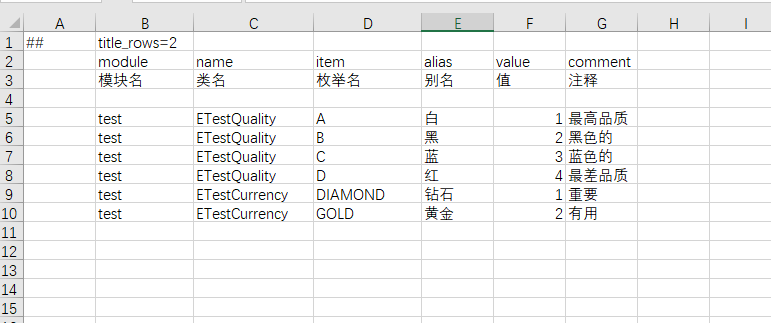
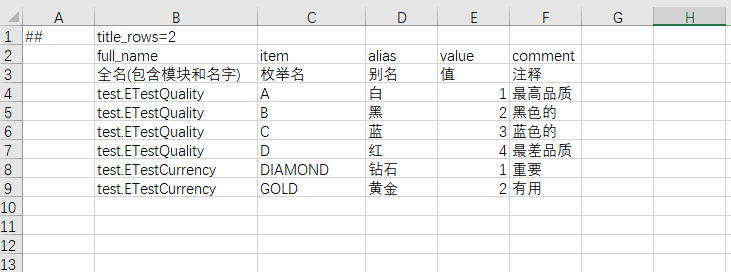
【特性】支持在excel中定义bean 【调整】将table和enum的excel格式中 module字段与name字段合并为full_name字段

Changed region(s): [[0.0, 0.0294, 1.0, 1.0]]

diff --git a/src/Luban.Job.Cfg/Source/Defs/CfgDefLoader.cs b/src/Luban.Job.Cfg/Source/Defs/CfgDefLoader.cs
@@ -20,9 +20,10 @@ namespace Luban.Job.Cfg.Defs
     {
         private static readonly NLog.Logger s_logger = NLog.LogManager.GetCurrentClassLogger();
 
-        private readonly List<string> _importExcelTables = new();
+        private readonly List<string> _importExcelTableFiles = new();
+        private readonly List<string> _importExcelEnumFiles = new();
+        private readonly List<string> _importExcelBeanFiles = new();
 
-        private readonly List<string> _importExcelEnums = new();
 
         private readonly List<Branch> _branches = new();
 
@@ -78,9 +79,10 @@ namespace Luban.Job.Cfg.Defs
             }
             switch (type)
             {
-                case "table": this._importExcelTables.Add(importName); break;
-                case "enum": this._importExcelEnums.Add(importName); break;
-                default: throw new Exception($"importexcel name:'{importName}' type:'{type}' 不合法. 有效值为 table 或者 enum");
+                case "table": this._importExcelTableFiles.Add(importName); break;
+                case "enum": this._importExcelEnumFiles.Add(importName); break;
+                case "bean": this._importExcelBeanFiles.Add(importName); break;
+                default: throw new Exception($"importexcel name:'{importName}' type:'{type}' 不合法. 有效值为 table|enum|bean");
             }
         }
 
@@ -437,11 +439,11 @@ namespace Luban.Job.Cfg.Defs
 
         private async Task LoadTableListFromFileAsync(string dataDir)
         {
-            if (this._importExcelTables.Count == 0)
+            if (this._importExcelTableFiles.Count == 0)
             {
                 return;
             }
-            var inputFileInfos = await DataLoaderUtil.CollectInputFilesAsync(this.Agent, this._importExcelTables, dataDir);
+            var inputFileInfos = await DataLoaderUtil.CollectInputFilesAsync(this.Agent, this._importExcelTableFiles, dataDir);
 
             var defTableRecordType = new DefBean(new CfgBean()
             {
@@ -455,8 +457,7 @@ namespace Luban.Job.Cfg.Defs
                 IsSerializeCompatible = false,
                 Fields = new List<Field>
                 {
-                    new CfgField() { Name = "name", Type = "string" },
-                    new CfgField() { Name = "module", Type = "string" },
+                    new CfgField() { Name = "full_name", Type = "string" },
                     new CfgField() { Name = "value_type", Type = "string" },
                     new CfgField() { Name = "index", Type = "string" },
                     new CfgField() { Name = "mode", Type = "string" },
@@ -484,8 +485,13 @@ namespace Luban.Job.Cfg.Defs
                 {
                     DBean data = r.Data;
                     //s_logger.Info("== read text:{}", r.Data);
-                    string name = (data.GetField("name") as DString).Value.Trim();
-                    string module = (data.GetField("module") as DString).Value.Trim();
+                    string fullName = (data.GetField("full_name") as DString).Value.Trim();
+                    if (string.IsNullOrWhiteSpace(fullName))
+                    {
+                        throw new Exception($"file:{file.ActualFile} 定义了一个空的table类名");
+                    }
+                    string name = TypeUtil.GetName(fullName);
+                    string module = TypeUtil.GetNamespace(fullName);
                     string valueType = (data.GetField("value_type") as DString).Value.Trim();
                     string index = (data.GetField("index") as DString).Value.Trim();
                     string mode = (data.GetField("mode") as DString).Value.Trim();
@@ -501,11 +507,11 @@ namespace Luban.Job.Cfg.Defs
 
         private async Task LoadEnumListFromFileAsync(string dataDir)
         {
-            if (this._importExcelTables.Count == 0)
+            if (this._importExcelEnumFiles.Count == 0)
             {
                 return;
             }
-            var inputFileInfos = await DataLoaderUtil.CollectInputFilesAsync(this.Agent, this._importExcelEnums, dataDir);
+            var inputFileInfos = await DataLoaderUtil.CollectInputFilesAsync(this.Agent, this._importExcelEnumFiles, dataDir);
 
             var defTableRecordType = new DefBean(new CfgBean()
             {
@@ -519,8 +525,7 @@ namespace Luban.Job.Cfg.Defs
                 IsSerializeCompatible = false,
                 Fields = new List<Field>
                 {
-                    new CfgField() { Name = "name", Type = "string" },
-                    new CfgField() { Name = "module", Type = "string" },
+                    new CfgField() { Name = "full_name", Type = "string" },
                     new CfgField() { Name = "item", Type = "string" },
                     new CfgField() { Name = "alias", Type = "string" },
                     new CfgField() { Name = "value", Type = "string" },
@@ -546,17 +551,18 @@ namespace Luban.Job.Cfg.Defs
                 {
                     DBean data = r.Data;
                     //s_logger.Info("== read text:{}", r.Data);
-                    string name = (data.GetField("name") as DString).Value.Trim();
-                    string module = (data.GetField("module") as DString).Value.Trim();
+                    string fullName = (data.GetField("full_name") as DString).Value.Trim();
+                    if (string.IsNullOrWhiteSpace(fullName))
+                    {
+                        throw new Exception($"file:{file.ActualFile} 定义了一个空的enum类名");
+                    }
+                    string name = TypeUtil.GetName(fullName);
+                    string module = TypeUtil.GetNamespace(fullName);
+
                     if (curEnum == null || curEnum.Name != name || curEnum.Namespace != module)
                     {
                         curEnum = new PEnum() { Name = name, Namespace = module, IsFlags = false, Comment = "", IsUniqueItemId = true };
                         this._enums.Add(curEnum);
-                    }
-
-                    if (string.IsNullOrWhiteSpace(name))
-                    {
-                        throw new Exception($"file:{file.ActualFile} 定义了一个空枚举类名");
                     }
 
                     string item = (data.GetField("item") as DString).Value.Trim();
@@ -572,9 +578,125 @@ namespace Luban.Job.Cfg.Defs
             }
         }
 
+        private async Task LoadBeanListFromFileAsync(string dataDir)
+        {
+            if (this._importExcelBeanFiles.Count == 0)
+            {
+                return;
+            }
+            var inputFileInfos = await DataLoaderUtil.CollectInputFilesAsync(this.Agent, this._importExcelBeanFiles, dataDir);
+
+
+            var ass = new DefAssembly("", null, true, Agent);
+
+            var defBeanFieldType = new DefBean(new CfgBean()
+            {
+                Namespace = "__intern__",
+                Name = "__FieldInfo__",
+                Parent = "",
+                Alias = "",
+                IsValueType = false,
+                Sep = "",
+                TypeId = 0,
+                IsSerializeCompatible = false,
+                Fields = new List<Field>
+                {
+                    new CfgField() { Name = "name", Type = "string" },
+                    new CfgField() { Name = "type", Type = "string" },
+                    new CfgField() { Name = "sep", Type = "string" },
+                    new CfgField() { Name = "is_multi_rows", Type = "bool" },
+                    new CfgField() { Name = "group", Type = "string" },
+                    new CfgField() { Name = "comment", Type = "string" },
+                }
+            })
+            {
+                AssemblyBase = ass,
+            };
+
+            defBeanFieldType.PreCompile();
+            defBeanFieldType.Compile();
+            defBeanFieldType.PostCompile();
+
+            ass.AddType(defBeanFieldType);
+
+            var defTableRecordType = new DefBean(new CfgBean()
+            {
+                Namespace = "__intern__",
+                Name = "__BeanInfo__",
+                Parent = "",
+                Alias = "",
+                IsValueType = false,
+                Sep = "",
+                TypeId = 0,
+                IsSerializeCompatible = false,
+                Fields = new List<Field>
+                {
+                    new CfgField() { Name = "full_name", Type = "string" },
+                    new CfgField() { Name = "comment", Type = "string" },
+                    new CfgField() { Name = "fields", Type = "list,__FieldInfo__", IsMultiRow = true },
+                }
+            })
+            {
+                AssemblyBase = ass,
+            };
+            ass.AddType(defTableRecordType);
+            defTableRecordType.PreCompile();
+            defTableRecordType.Compile();
+            defTableRecordType.PostCompile();
+            ass.MarkMultiRows();
+            var tableRecordType = new TBean(defTableRecordType, false);
+
+            foreach (var file in inputFileInfos)
+            {
+                var source = new ExcelDataSource();
+                var bytes = await this.Agent.GetFromCacheOrReadAllBytesAsync(file.ActualFile, file.MD5);
+                var records = DataLoaderUtil.LoadCfgRecords(tableRecordType, file.OriginFile, null, bytes, true, false);
+
+                foreach (var r in records)
+                {
+                    DBean data = r.Data;
+                    //s_logger.Info("== read text:{}", r.Data);
+                    string fullName = (data.GetField("full_name") as DString).Value.Trim();
+                    if (string.IsNullOrWhiteSpace(fullName))
+                    {
+                        throw new Exception($"file:{file.ActualFile} 定义了一个空的bean类名");
+                    }
+                    string name = TypeUtil.GetName(fullName);
+                    string module = TypeUtil.GetNamespace(fullName);
+
+                    if (string.IsNullOrWhiteSpace(name))
+                    {
+                        throw new Exception($"file:{file.ActualFile} 定义了一个空bean类名");
+                    }
+
+                    string sep = (data.GetField("sep") as DString).Value.Trim();
+                    string comment = (data.GetField("comment") as DString).Value.Trim();
+                    DList fields = data.GetField("fields") as DList;
+                    var curBean = new CfgBean()
+                    {
+                        Name = name,
+                        Namespace = module,
+                        Sep = sep,
+                        Comment = comment,
+                        Parent = "",
+                        Fields = fields.Datas.Select(d => (DBean)d).Select(b => (Field)new CfgField()
+                        {
+                            Name = (b.GetField("name") as DString).Value.Trim(),
+                            Type = (b.GetField("type") as DString).Value.Trim(),
+                            Sep = (b.GetField("sep") as DString).Value.Trim(),
+                            IsMultiRow = (b.GetField("is_multi_rows") as DBool).Value,
+                            Groups = (b.GetField("group") as DString).Value.Trim().Split(',').Select(g => g.Trim()).ToList(),
+                            Comment = (b.GetField("comment") as DString).Value.Trim(),
+                        }).ToList(),
+                    };
+                    this._beans.Add(curBean);
+                };
+            }
+        }
+
         public async Task LoadDefinesFromFileAsync(string dataDir)
         {
-            await Task.WhenAll(LoadTableListFromFileAsync(dataDir), LoadEnumListFromFileAsync(dataDir));
+            await Task.WhenAll(LoadTableListFromFileAsync(dataDir), LoadEnumListFromFileAsync(dataDir), LoadBeanListFromFileAsync(dataDir));
             await LoadTableRecordDefinesFromFileAsync(dataDir);
         }
 

diff --git a/src/Luban.Job.Cfg/Source/Defs/DefAssembly.cs b/src/Luban.Job.Cfg/Source/Defs/DefAssembly.cs
@@ -269,6 +269,11 @@ namespace Luban.Job.Cfg.Defs
 
             // 递归 设置DefBean及DefField 的 IsMultiRow
 
+            MarkMultiRows();
+        }
+
+        public void MarkMultiRows()
+        {
             var multiRowBeans = new HashSet<DefBean>();
             for (bool anyMark = true; anyMark;)
             {

diff --git a/README.md b/README.md
@@ -113,13 +113,17 @@ Luban适合有以下需求的开发者：
 
 ![兼容纵表](docs/images/examples/ex_02.png) 
 
-### excel中添加table到导出列表
+### excel中添加table声明
 
 ![tables.xlsx](docs/images/examples/ex_06.png) 
 
-### 在excel中定义enum类型
+### 在excel中定义enum 类型
 
 ![enums.xlsx](docs/images/examples/ex_05.png)
+
+### 在excel中定义bean 类型
+
+![enums.xlsx](docs/images/examples/ex_07.png)
 
 -----
 
